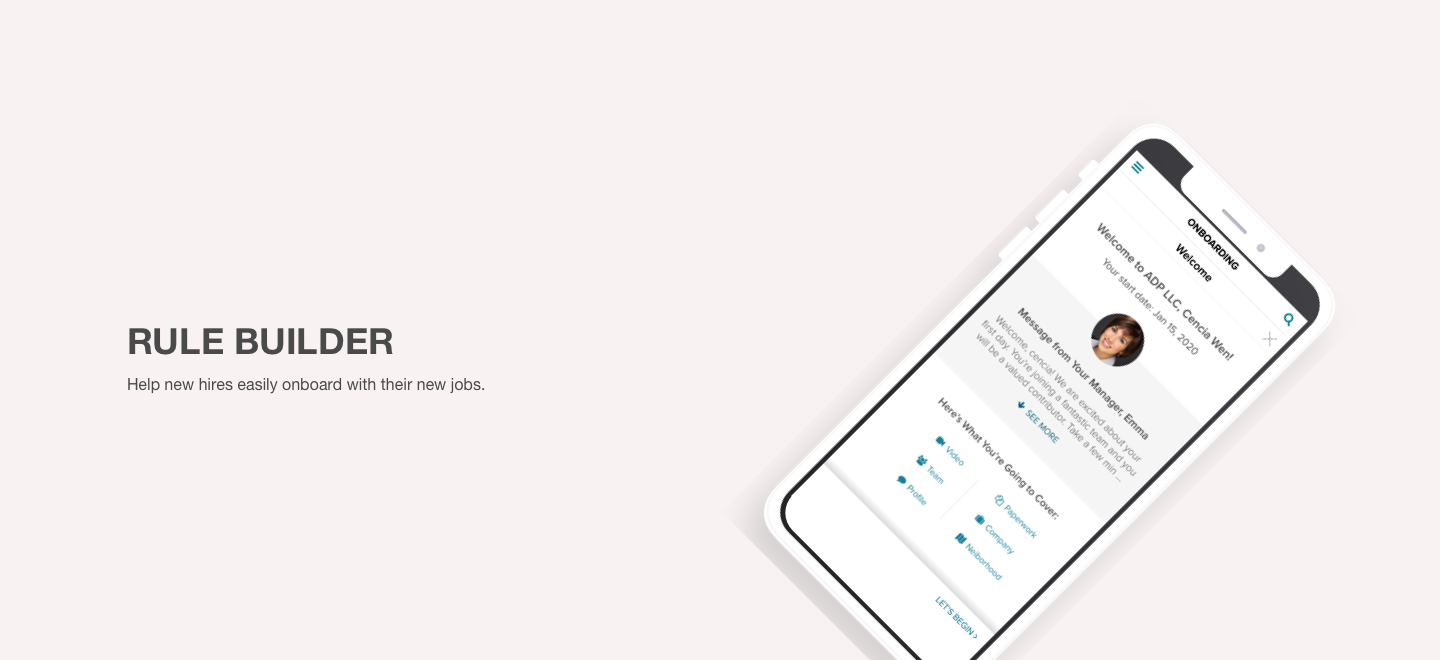
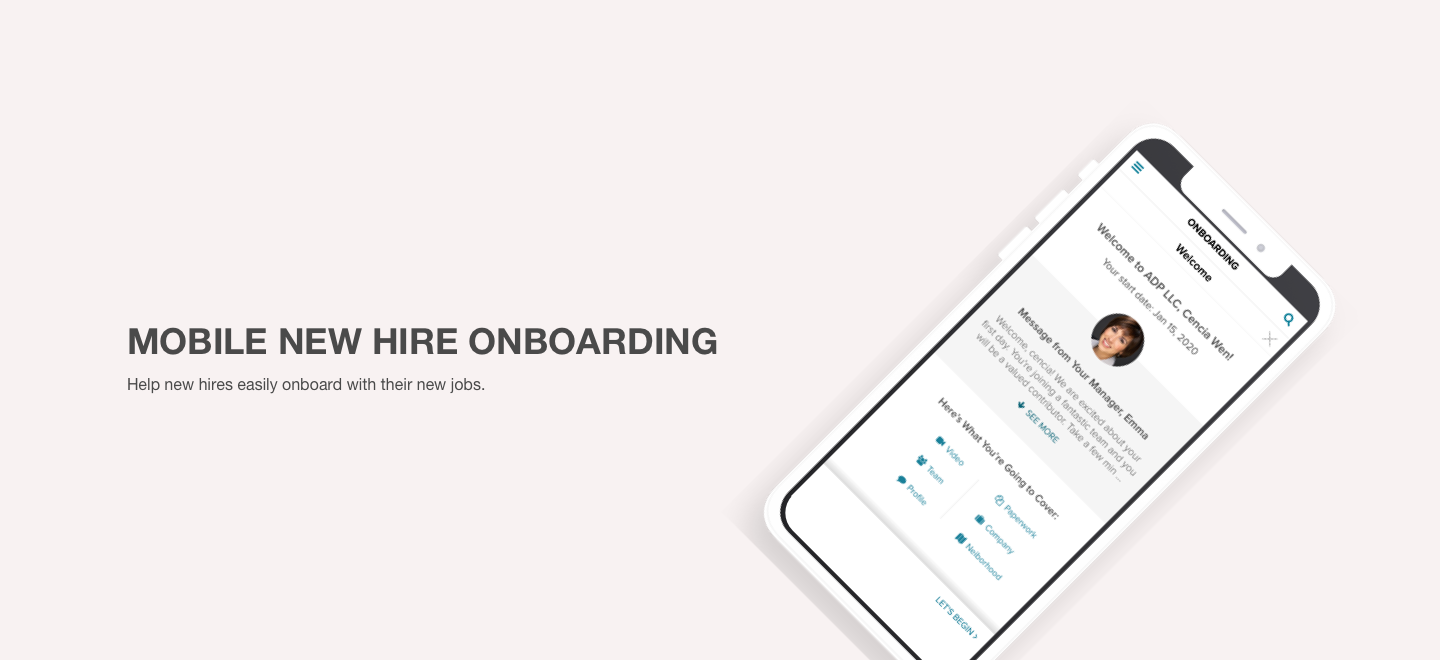
Fix Details
- Fix image file name, size;
- Fix section header;
- Fix links;

Changed region(s): [[0.0938, 0.4848, 0.5, 0.5455]]

diff --git a/project03.html b/project03.html
@@ -149,7 +149,7 @@
 
 				<div class="section-medium" >
 					<h3>Goal</h3>
-					<p>Improve the mobile new hire onboarding experience.</p>
+					<p>Improve usability of the new hire onboarding experience on a mobile device such as making the design easy to navigate, tap, etc.</p>
 					
 				</div>
 			</div>
@@ -275,16 +275,17 @@
 					
 					<!-- pain point 1 -->
 					<div class="design-point">
-						<h4>Paint Point 1 Confusing Double Menu</h4>
+						<h4>Design Solution on Paint Point #1</h4>
+						<p>Paint Point 1 Confusing Double Menu</p>
 
 						<div data-aos="fade-down" class="flex-evenly text-align-center">
 							<div class="half-width design-img">
-								<a href="images/MO_PainPoint1_2.png"><img src="images/MO_PainPoint1_2.png"></a>
+								<a href="images/MO_PainPoint1_2.png"><img style="height: 70vh; width: auto;" src="images/MO_PainPoint1_2.png"></a>
 								<h3>Before</h3>
 								<p class="img-annotation">Confusing double menu icons for main and sub-navigation.</p>
 							</div>
 							<div class="half-width design-img">
-								<a href="images/MO_PainPoint1_3.gif"><img src="images/MO_PainPoint1_3.gif"></a>
+								<a href="images/MO_PainPoint1_3.gif"><img style="height: 70vh; width: auto;" src="images/MO_PainPoint1_3.gif"></a>
 								<h3>After</h3>
 								<p class="img-annotation">Cleaned up the menu icon and use the wizard to present the new hire process.</p>
 							</div>
@@ -293,16 +294,17 @@
 
 					<!-- pain point 2 -->
 					<div class="design-point">
-						<h4>Paint Point 2 Messy View & Pain Point 3 Can’t Enter Information</h4>
+						<h4>Design Solution on Paint Point #2 & #3</h4>
+						<p>Messy View & Can’t Enter Information</p>
 
 						<div data-aos="fade-down" class="flex-evenly text-align-center">
 							<div class="half-width design-img">
-								<a href="images/MO_PainPoint2_2.png"><img src="images/MO_PainPoint2_2.png"></a>
+								<a href="images/MO_PainPoint2_2.png"><img style="height: 70vh; width: auto;" src="images/MO_PainPoint2_2.png"></a>
 								<h3>Before</h3>
 								<p class="img-annotation">Messy look due to restricted component width.<br>No keyboard support.</p>
 							</div>
 							<div class="half-width design-img">
-								<a href="images/MO_PainPoint2_3.gif"><img src="images/MO_PainPoint2_3.gif"></a>
+								<a href="images/MO_PainPoint2_3.gif"><img style="height: 70vh; width: auto;" src="images/MO_PainPoint2_3.gif"></a>
 								<h3>After</h3>
 								<p class="img-annotation">Choose mobile-friendly components and keep the view neat and clean.<br>Support keyboard.</p>
 							</div>
@@ -311,16 +313,17 @@
 
 					<!-- pain point 4 -->
 					<div data-aos="fade-down" class="design-point">
-						<h4>Paint Point 4 Not Finger-Friendly</h4>
+						<h4>Design Solution on Paint Point #4</h4>
+						<p>Paint Point 4 Not Finger-Friendly</p>
 
 						<div class="flex-evenly text-align-center">
 							<div class="half-width design-img">
-								<a href="images/MO_PainPoint4_2.png"><img src="images/MO_PainPoint4_2.png"></a>
+								<a href="images/MO_PainPoint4_2.png"><img style="height: 70vh; width: auto;" src="images/MO_PainPoint4_2.png"></a>
 								<h3>Before</h3>
 								<p class="img-annotation">Certain button/link are too small to tap.</p>
 							</div>
 							<div class="half-width design-img">
-								<a href="images/MO_PainPoint4_3.png"><img src="images/MO_PainPoint4_3.png"></a>
+								<a href="images/MO_PainPoint4_3.png"><img style="height: 70vh; width: auto;" src="images/MO_PainPoint4_3.png"></a>
 								<h3>After</h3>
 								<p class="img-annotation">Resize them and make it easier to tap.</p>
 							</div>
@@ -329,16 +332,17 @@
 
 					<!-- pain point 5 -->
 					<div data-aos="fade-down" class="design-point">
-						<h4>Paint Point 5 Painful Main Navigation</h4>
+						<h4>Design Solution on Paint Point #5</h4>
+						<p>Paint Point 5 Painful Main Navigation</p>
 
 						<div class="flex-evenly text-align-center">
 							<div class="half-width design-img long-img">
-								<a href="images/MO_PainPoint5_1.png"><img src="images/MO_PainPoint5_1.png" style="height: 820px;width: 80px;"></a>
+								<a href="images/MO_PainPoint5_1.png"><img style="height: 70vh; width: auto;" src="images/MO_PainPoint5_1.png"></a>
 								<h3>Before</h3>
 								<p class="img-annotation">A lot of scrolls when the page is long.</p>
 							</div>
 							<div class="half-width design-img">
-								<a href="images/MO_PainPoint5_3.gif"><img src="images/MO_PainPoint5_3.gif"></a>
+								<a href="images/MO_PainPoint5_3.gif"><img style="height: 70vh; width: auto;" src="images/MO_PainPoint5_3.gif"></a>
 								<h3>After</h3>
 								<p class="img-annotation">Easy access to main navigation regardless the length of the page.</p>
 							</div>
@@ -361,7 +365,7 @@
 				</div>
 
 				<div class="section-medium flex-evenly">
-					<video width="100%" controls style="width: 40%;">
+					<video controls style="height: 70vh; width: auto;" >
 						<source src="videos/MO_Demo.mp4" type="video/mp4">
 					</video>					
 				</div>                          
@@ -372,8 +376,8 @@
 
 
 		<div class="link" id="link">
-			<div class="projectLink" style="background-color: #CAEBF2;">
-				<a href="YED.html">
+			<div class="projectLink projectLink-left" style="background-color: #CAEBF2;">
+				<a href="project01.html">
 				<h1>{{link.YED.caption}}</h1>
 				<p>{{link.YED.description}}</p>
 				<p>{{link.YED.hashtag}}</p>	
@@ -385,7 +389,7 @@
 					<p><a href="mailto:w1043086039@gmail.com?"><i class="fas fa-envelope"></i></a></p>
 					<p>Contact</p>						
 			</div>
-			<div class="projectLink" style="background-color: #E7FCFA;">
+			<div class="projectLink projectLink-right" style="background-color: #E7FCFA;">
 				<a href="project02.html">
 				<h1>{{link.ruleBuilder.caption}}</h1>
 				<p>{{link.ruleBuilder.description}}</p>

diff --git a/project02.html b/project02.html
@@ -383,7 +383,8 @@
 					
 					<!-- pain point 1 -->
 					<div class="design-point">
-						<h4>Paint Point 1 Difficult to Locate A Group</h4>
+						<h4>Design Solution on Paint Point #1</h4>
+						<p>Difficult to Locate A Group</p>
 
 						<div data-aos="fade-down" class="flex-evenly text-align-center">
 							<div class="half-width design-img">
@@ -401,7 +402,8 @@
 
 					<!-- pain point 2 -->
 					<div class="design-point">
-						<h4>Paint Point 2 Potential Misuse of And/Or Logic</h4>
+						<h4>Design Solution on Paint Point #2</h4>
+						<p>Potential Misuse of And/Or Logic</p>
 
 						<div data-aos="fade-down" class="flex-evenly text-align-center">
 							<div class="half-width design-img">
@@ -419,7 +421,8 @@
 
 					<!-- pain point 3 -->
 					<div data-aos="fade-down" class="design-point">
-						<h4>Paint Point 3 No Real Preview</h4>
+						<h4>Design Solution on Paint Point #3</h4>
+						<p>No Real Preview</p>
 
 						<div class="flex-evenly text-align-center">
 							<div class="half-width design-img">
@@ -437,7 +440,8 @@
 
 					<!-- pain point 4 -->
 					<div data-aos="fade-down" class="design-point">
-						<h4>Paint Point 4 Unnecessary Type Column</h4>
+						<h4>Design Solution on Paint Point #4</h4>
+						<p>Unnecessary Type Column</p>
 
 						<div class="flex-evenly text-align-center">
 							<div class="half-width design-img">
@@ -455,7 +459,8 @@
 
 					<!-- pain point 5 -->
 					<div data-aos="fade-down" class="design-point">
-						<h4>Paint Point 5 Hard to Create A “Complex” Rule</h4>
+						<h4>Design Solution on Paint Point #5</h4>
+						<p>Hard to Create A “Complex” Rule</p>
 
 						<div class="flex-evenly text-align-center">
 							<div class="half-width design-img">
@@ -496,8 +501,8 @@
 
 
 		<div class="link" id="link">
-			<div class="projectLink" style="background-color: #CAEBF2;">
-				<a href="YED.html">
+			<div class="projectLink projectLink-left" style="background-color: #CAEBF2;">
+				<a href="project01.html">
 				<h1>{{link.YED.caption}}</h1>
 				<p>{{link.YED.description}}</p>
 				<p>{{link.YED.hashtag}}</p>	
@@ -509,8 +514,8 @@
 					<p><a href="mailto:w1043086039@gmail.com?"><i class="fas fa-envelope"></i></a></p>
 					<p>Contact</p>						
 			</div>
-			<div class="projectLink" style="background-color: #E7FCFA;">
-				<a href="project02.html">
+			<div class="projectLink projectLink-right" style="background-color: #E7FCFA;">
+				<a href="project03.html">
 				<h1>{{link.mobileOnboarding.caption}}</h1>
 				<p>{{link.mobileOnboarding.description}}</p>
 				<p>{{link.mobileOnboarding.hashtag}}</p>	
@@ -595,7 +600,7 @@
         		},
         		backgroundVideo:"",
         		img:"images/RB_Cover.png",
-        		title:"Year End Dashboard",
+        		title:"Year-End Dashboard",
         		subtitle:"Help Payroll Practitiner complete year-end payroll tasks Correctly & Efficiently.",
         		story:"Help Payroll Practitiner complete year-end payroll tasks correctly & efficiently.",
         		projectLink:"RBashboard.html",

diff --git a/project01.html b/project01.html
@@ -352,7 +352,8 @@
 					<!-- pain point 1 -->
 
 					<div class="section-sm">
-						<h4>Paint Point 1  No Clear Deadline</h4>
+						<h4>Design Iterations on Paint Point #1</h4>
+						<p>No Clear Deadline</p>
 
 						<div class="slideshow-container">
 							<div class="mySlides1 fade">
@@ -384,7 +385,8 @@
 
 					<!-- pain point 2 -->
 					<div class="section-sm">
-						<h4>Paint Point 2  No Customization</h4>
+						<h4>Design Iterations on Paint Point #2</h4>
+						<P>No Customization</p>
 						<div class="carousel-container"></div>
 
 						<div class="slideshow-container">
@@ -420,7 +422,8 @@
 									
 	                 
 					<div class="section-sm">
-						<h4>Paint Point 3  Ineffective Tasks</h4>
+						<h4>Design Iterations on Paint Point #3</h4>
+						<p>Ineffective Tasks</p>
 						<div class="carousel-container"></div>
 
 						<div class="slideshow-container">
@@ -451,7 +454,8 @@
 		
 
 					<div class="section-sm">
-						<h4>Paint Point 4  No Direct Insight</h4>
+						<h4>Design Iterations on Paint Point #4</h4>
+						<p>No Direct Insight</p>
 
 						<div class="slideshow-container">
 							<div class="mySlides4 fade">
@@ -485,7 +489,8 @@
 							
 
 					<div class="section-sm">
-						<h4>Paint Point 5  Inconvenient to Update Data</h4>
+						<h4>Design Iterations on Paint Point #5</h4>
+						<p>Inconvenient to Update Data</p>
 
 						<div class="slideshow-container">
 							<div class="mySlides5 fade">
@@ -532,8 +537,8 @@
 
 
 		<div class="link" id="link">
-			<div class="projectLink" style="background-color: #CAEBF2;">
-				<a href="ruleBuilder.html">
+			<div class="projectLink projectLink-left" style="background-color: #CAEBF2;">
+				<a href="project02.html">
 				<h1>{{link.ruleBuilder.caption}}</h1>
 				<p>{{link.ruleBuilder.description}}</p>
 				<p>{{link.ruleBuilder.hashtag}}</p>	
@@ -545,8 +550,8 @@
 					<p><a href="mailto:w1043086039@gmail.com?"><i class="fas fa-envelope"></i></a></p>
 					<p>Contact</p>						
 			</div>
-			<div class="projectLink" style="background-color: #E7FCFA;">
-				<a href="project02.html">
+			<div class="projectLink projectLink-right" style="background-color: #E7FCFA;">
+				<a href="project03.html">
 				<h1>{{link.mobileOnboarding.caption}}</h1>
 				<p>{{link.mobileOnboarding.description}}</p>
 				<p>{{link.mobileOnboarding.hashtag}}</p>	
@@ -576,7 +581,7 @@
 
 
 		// carousel
-		var slideIndex = [1,1,1,1,1];
+		var slideIndex = [3,3,2,3,2];
 		var slideId = ["mySlides1", "mySlides2", "mySlides3", "mySlides4", "mySlides5"];
 		var dotsId = ["dots1", "dots2", "dots3", "dots4","dots5"];
 

diff --git a/assets/css/main.css b/assets/css/main.css
@@ -688,19 +688,19 @@ html, body {
 }
 
 .activeWorkContent img {	
-	animation: fadeUp 1s ease-in-out;
-	animation-delay: 1s;	
+	animation: fadeUp 0.5s ease-in-out;
+	animation-delay: 0.5s;	
 	animation-fill-mode: forwards;	
 }
 
 .activeWorkContent p {
-	animation: fadeUp 1s;
-	animation-delay: 1s;
+	animation: fadeUp 0.5s;
+	animation-delay: 0.5s;
 	animation-fill-mode: forwards;	
 }
 
 .activeWorkContent div {
-	animation: spreadHalf 1s ;
+	animation: spreadHalf 0.5s ;
 	animation-iteration-count: 1;
 	animation-fill-mode: forwards;
 }
@@ -1331,18 +1331,25 @@ Carousel
 	width: 45vw;
 }
 
+.projectLink-left {
+	padding-left: 20vw;
+	padding-top: 20px;
+}
+
+.projectLink-right {
+	padding-top: 20px;
+    /* padding-right: 15vw; */
+    padding-left: 20px;
+}
+
 .projectLink h1{
     font-size: 16px;
     text-transform: uppercase;
     font-weight: 600;
-    margin-left: 10%;
-    margin-top: 10%;	
 }
 
 .projectLink p{
     font-style: italic;
-	margin-left: 10%;
-	margin-right: 8%;
 }
 
 .homeAndContact {

diff --git a/index.html b/index.html
@@ -279,7 +279,7 @@
                 console.log('scroll up 1');
                 plusSlides(-1);
             }
-        },20);
+        },30);
 
         const handleKey = function(event) {
             if (lock) { return; }
@@ -357,7 +357,7 @@
         		hashTag:"#Strict user-centered design process",
         		backgroundVideo:"",
         		img:"images/Cover_RB.png",
-        		title:"RuleBuilder",
+        		title:"Rule Builder",
         		story:"Consolidate the existing rule builder components and improve the usability.",
         		highlight:"#Design System",
         		projectLink:"project02.html",
